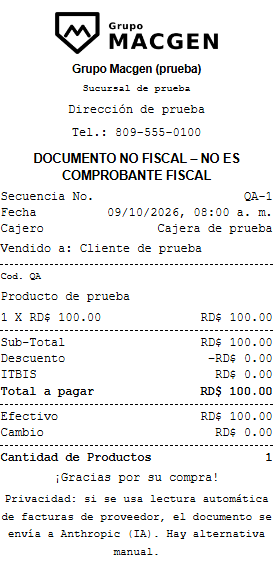
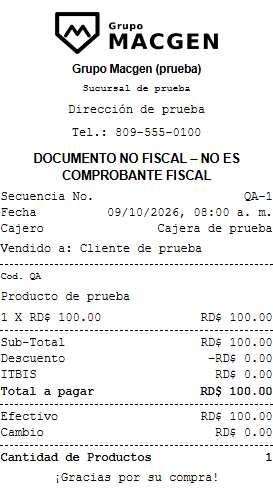
Int: P5 coherente con SEC-05 en Editar, POS y textos legales
Auditoría del lote (docs/AUDITORIA_LOTE_CHATGPT.md, P5-1..P5-3) y defecto
de la mezcla P5 + SEC-05:
- customer-display.ts: customerPrivateDisplay reducía lo que la API ya
  enmascara («•••••••123», SEC-05) a «•••», perdiendo los tres dígitos;
  ahora los conserva. seesCustomerPii aplica el mismo criterio que la API
  (sale:manage, customers:erase o *). customerEditValue: «Editar» nunca
  muestra el dato completo a la caja; lo enmascarado lleva «•» y la API
  (SEC-05) no lo guarda encima del real.
- Management.tsx (Clientes): Editar usa customerEditValue para teléfono y
  cédula/RNC; la búsqueda sin acceso completo no usa el teléfono.
- POS.tsx: el selector de cliente muestra «•••123» en vez del teléfono.
- Prints.tsx / TEXTO_PIE_TICKET.md: se quita del ticket del cliente el aviso
  sobre facturas de proveedor (queda sólo en la política, sección 6); se
  restaura la captura P4-ticket-80mm.png sin ese aviso.
- POLITICA_PRIVACIDAD.md: sin la nota interna de redacción (ahora marcador
  [GERENCIA/ABOGADO]) y la sección 4 ya no promete comprar sin dar nombre
  (el POS exige cliente con nombre).
Pruebas en tests/customer-display.test.ts (fallan antes, pasan ahora).

Claude-Session: https://claude.ai/code/session_01VUzTHmv39QwMjbYWn5CWyp

Changed region(s): [[0.0, 0.0, 1.0, 0.992], [0.4982, 0.481, 0.5568, 0.511]]

diff --git a/tests/customer-display.test.ts b/tests/customer-display.test.ts
@@ -1,22 +1,68 @@
 import { describe, expect, it } from "vitest";
 import { readFileSync } from "node:fs";
-import { customerPrivateDisplay } from "../apps/web/src/customer-display";
+import {
+  customerEditValue,
+  customerPrivateDisplay,
+  seesCustomerPii,
+} from "../apps/web/src/customer-display";
+const flat = (path: string) => readFileSync(path, "utf8").replace(/\s+/g, " ");
 describe("P5: datos de clientes en la lista", () => {
-  it("la lista aplica el filtro y el ticket declara lectura de facturas por IA", () => {
+  it("la lista aplica el filtro y el aviso de IA queda en la política, no en el ticket", () => {
     const source = readFileSync("apps/web/src/Management.tsx", "utf8");
     expect(source).toMatch(/customerPrivateDisplay\(\s*c.phone/);
     expect(source).toMatch(/customerPrivateDisplay\(\s*c.legalId/);
-    expect(
-      readFileSync("apps/web/src/Prints.tsx", "utf8").replace(/\s+/g, " "),
-    ).toContain("el documento se envía a Anthropic (IA)");
+    // Int P5-3: el ticket del cliente no habla de facturas de proveedor.
+    expect(flat("apps/web/src/Prints.tsx")).not.toContain("Anthropic");
+    expect(flat("docs/legal/POLITICA_PRIVACIDAD.md")).toContain(
+      "la imagen o PDF de la factura se envía a Anthropic",
+    );
   });
   it("cajera sólo ve los tres últimos dígitos y nunca un dato corto completo", () => {
     expect(customerPrivateDisplay("809-555-0123", false)).toBe("•••123");
     expect(customerPrivateDisplay("001-1234567-8", false)).toBe("•••678");
     expect(customerPrivateDisplay("12", false)).toBe("•••");
     expect(customerPrivateDisplay("", false)).toBe("—");
+    // Lo que ya envía enmascarado la API (SEC-05) se acorta igual.
+    expect(customerPrivateDisplay("•••••••123", false)).toBe("•••123");
   });
   it("gerencia conserva el dato completo", () => {
     expect(customerPrivateDisplay("809-555-0123", true)).toBe("809-555-0123");
+  });
+  it("Int P5-1: mismo criterio que la API (sale:manage, customers:erase o *)", () => {
+    expect(seesCustomerPii(["sale:write", "customers:write"])).toBe(false);
+    expect(seesCustomerPii(["sale:manage"])).toBe(true);
+    expect(seesCustomerPii(["customers:erase"])).toBe(true);
+    expect(seesCustomerPii(["*"])).toBe(true);
+  });
+  it("Int P5-1: «Editar» no muestra el dato completo a la caja", () => {
+    expect(customerEditValue("809-555-0123", false)).toBe("•••123");
+    // Lo enmascarado lleva «•» y la API no lo guarda encima del real.
+    expect(customerEditValue("•••••••123", false)).toBe("•••••••123");
+    expect(customerEditValue("", false)).toBe("");
+    expect(customerEditValue(null, false)).toBeNull();
+    expect(customerEditValue("809-555-0123", true)).toBe("809-555-0123");
+    const source = flat("apps/web/src/Management.tsx");
+    expect(source).toContain(
+      "phone: customerEditValue(editing.phone, fullCustomer)",
+    );
+    expect(source).toContain(
+      "legalId: customerEditValue(editing.legalId, fullCustomer)",
+    );
+    expect(source).toContain('(c.name + " " + (fullCustomer ? c.phone : ""))');
+  });
+  it("Int P5-1: el selector de cliente del POS no muestra el teléfono completo", () => {
+    const pos = flat("apps/web/src/POS.tsx");
+    expect(pos).not.toContain("<small>{c.phone}</small>");
+    expect(pos).toMatch(
+      /customerPrivateDisplay\( c\.phone, seesCustomerPii\(user!\.permissions\), \)/,
+    );
+  });
+  it("Int P5-2/P5-4: la política no publica notas internas ni promete compra anónima", () => {
+    const policy = flat("docs/legal/POLITICA_PRIVACIDAD.md");
+    expect(policy).not.toContain("antes de publicar este texto, la gerencia");
+    expect(policy).not.toContain(
+      'Puede comprar como "consumidor final" sin dar nombre',
+    );
+    expect(policy).toContain("pedimos un nombre que identifique al cliente");
   });
 });

diff --git a/apps/web/src/Management.tsx b/apps/web/src/Management.tsx
@@ -61,7 +61,11 @@ import {
   type Printing,
 } from "./Tienda";
 import { METHOD_LABEL, printSoon } from "./Prints";
-import { customerPrivateDisplay } from "./customer-display";
+import {
+  customerEditValue,
+  customerPrivateDisplay,
+  seesCustomerPii,
+} from "./customer-display";
 import { managementQueryError } from "./managementMessages";
 import {
   applyPendingSaleReprice,
@@ -1902,9 +1906,7 @@ export function Customers() {
   // SEC-05: sin gerencia, la API envía teléfono, correo y cédula/RNC
   // enmascarados («•••••••123») y sin gasto histórico. El correo enmascarado
   // no es un correo válido para el navegador; la API lo valida al guardar.
-  const fullCustomer =
-    can(user.permissions, "sale:manage") ||
-    can(user.permissions, "customers:erase");
+  const fullCustomer = seesCustomerPii(user.permissions);
   const fields: Field[] = [
     { key: "name", label: "Nombre", required: true },
     { key: "phone", label: "Teléfono" },
@@ -1941,7 +1943,9 @@ export function Customers() {
         <QueryState query={query}>
           <DataTable
             rows={(query.data || []).filter((c: any) =>
-              (c.name + " " + c.phone)
+              // P5: sin acceso completo la búsqueda no usa el teléfono, para
+              // no servir de oráculo de los dígitos ocultos.
+              (c.name + " " + (fullCustomer ? c.phone : ""))
                 .toLowerCase()
                 .includes(search.toLowerCase()),
             )}
@@ -2015,7 +2019,12 @@ export function Customers() {
         <FormModal
           title="Editar cliente"
           fields={fields}
-          initial={editing}
+          // P5: «Editar» tampoco muestra teléfono ni cédula/RNC completos.
+          initial={{
+            ...editing,
+            phone: customerEditValue(editing.phone, fullCustomer),
+            legalId: customerEditValue(editing.legalId, fullCustomer),
+          }}
           onClose={() => setEditing(null)}
           onSubmit={(data) => mutate("/customers/" + editing.id, data, "PATCH")}
         />

diff --git a/apps/web/src/customer-display.ts b/apps/web/src/customer-display.ts
@@ -7,6 +7,29 @@ export function customerPrivateDisplay(
   if (!text) return "—";
   if (manager) return text;
   const digits = text.replace(/\D/g, "");
+  // SEC-05: la API ya lo envía enmascarado («•••••••123»); sus tres dígitos
+  // visibles se conservan en vez de reducirlo a «•••».
+  if (text.includes("•")) return "•••" + digits.slice(-3);
   // Un dato corto tampoco se revela completo.
   return digits.length > 3 ? "•••" + digits.slice(-3) : "•••";
+}
+
+/**
+ * Mismo criterio que la API (SEC-05, canViewCustomerPii en common.ts):
+ * gerencia (sale:manage), quien puede borrar clientes (customers:erase) o la
+ * administración (*) ven teléfono, correo y cédula/RNC completos.
+ */
+export const seesCustomerPii = (permissions: readonly string[]) =>
+  ["*", "sale:manage", "customers:erase"].some((p) => permissions.includes(p));
+
+/**
+ * Valor inicial del formulario «Editar» para quien no ve los datos
+ * completos: nunca el dato completo, aunque llegara sin enmascarar. Lo
+ * enmascarado («•••123») lleva «•», así que la API (SEC-05) no lo guarda
+ * encima del dato real; un campo vacío sigue vacío para poder completarlo.
+ */
+export function customerEditValue(value: unknown, full: boolean) {
+  if (value === null || value === undefined || value === "") return value;
+  if (full || String(value).includes("•")) return value;
+  return customerPrivateDisplay(value, false);
 }

diff --git a/apps/web/src/POS.tsx b/apps/web/src/POS.tsx
@@ -66,6 +66,7 @@ import {
   priceChanges,
 } from "./realtime";
 import { offlineSaleAction } from "./offlinePolicy";
+import { customerPrivateDisplay, seesCustomerPii } from "./customer-display";
 import { blockPosShortcutWithModal } from "./posKeyboard";
 
 function discountFor(
@@ -1163,7 +1164,15 @@ export function POS({ go }: { go: (page: string) => void }) {
                   <UserRound />
                   <span>
                     {c.name}
-                    <small>{c.phone}</small>
+                    {/* P5 + SEC-05: el selector no muestra el teléfono completo. */}
+                    <small>
+                      {c.phone
+                        ? customerPrivateDisplay(
+                            c.phone,
+                            seesCustomerPii(user!.permissions),
+                          )
+                        : null}
+                    </small>
                   </span>
                 </button>
               ))}

diff --git a/apps/web/src/Prints.tsx b/apps/web/src/Prints.tsx
@@ -374,10 +374,6 @@ export function InvoicePrint({
       <hr />
       <Row label="Cantidad de Productos" value={units} strong />
       <p className="tp-center">¡Gracias por su compra!</p>
-      <small className="tp-center">
-        Privacidad: si se usa lectura automática de facturas de proveedor, el
-        documento se envía a Anthropic (IA). Hay alternativa manual.
-      </small>
     </>
   );
 }

diff --git a/docs/legal/POLITICA_PRIVACIDAD.md b/docs/legal/POLITICA_PRIVACIDAD.md
@@ -23,7 +23,7 @@ A (a) clientes que compran o a quienes se les registra en nuestro sistema de caj
 No recolectamos números completos de tarjeta ni códigos de seguridad. No tomamos fecha de nacimiento ni datos de menores. No usamos sus datos para publicidad de terceros ni para decisiones automatizadas. [Si la Tienda enviará promociones, deberá pedir un consentimiento separado y hoy no lo hace.]
 
 ## 4. Si no entrega los datos
-Puede comprar como "consumidor final" sin dar nombre, teléfono ni correo. Solo necesitamos cédula/RNC si usted pide comprobante fiscal con sus datos, y datos de contacto si compra a crédito o contraentrega.
+Para registrar la venta pedimos un nombre que identifique al cliente en el recibo; teléfono, correo y cédula/RNC son opcionales. Solo necesitamos cédula/RNC si usted pide comprobante fiscal con sus datos, y datos de contacto si compra a crédito o contraentrega.
 
 ## 5. Cuánto tiempo los conservamos
 - Registros de venta, pagos, comprobantes (NCF) y documentos contables: el plazo exigido por la normativa fiscal y contable dominicana [ABOGADO/CONTADOR: confirmar, normalmente varios años].
@@ -42,7 +42,7 @@ No vendemos sus datos.
 ### Lectura automática de facturas de proveedor
 Si se utiliza esta función, la imagen o PDF de la factura se envía a Anthropic, proveedor de inteligencia artificial, para extraer los datos y permitir su revisión humana. No es necesario utilizarla: puede registrar la factura manualmente o mediante Excel/CSV. Evite enviar información personal que no sea necesaria.
 
-La aplicación no crea un archivo de la factura en la cuenta de Anthropic. Esto no equivale a garantizar retención cero por parte del proveedor: antes de publicar este texto, la gerencia debe confirmar las condiciones de conservación y el acuerdo de tratamiento aplicables a su cuenta. No se afirma que el proveedor elimine inmediatamente el documento sin evidencia contractual.
+La aplicación no crea un archivo de la factura en la cuenta del proveedor. Las condiciones de conservación del proveedor son las de su acuerdo de tratamiento de datos. [GERENCIA/ABOGADO: confirmar plazo de conservación antes de publicar.]
 
 ## 7. Sus derechos
 Puede pedir en cualquier momento acceso a sus datos, rectificar los que estén errados, actualizarlos, cancelarlos (eliminarlos) u oponerse a su uso, y retirar su consentimiento. Escriba a [CORREO DE CONTACTO] o pregunte en caja; le pediremos verificar su identidad. Responderemos en un plazo de [10] días hábiles [ABOGADO: confirmar plazo legal]. Algunos datos no pueden eliminarse mientras exista una obligación legal de conservarlos; en ese caso los anonimizaremos y se lo explicaremos. Si cree que sus derechos no fueron atendidos, puede acudir a la autoridad competente [ABOGADO: indicar].

diff --git a/docs/legal/TEXTO_PIE_TICKET.md b/docs/legal/TEXTO_PIE_TICKET.md
@@ -44,5 +44,4 @@ Info: [TELEFONO]
 
 Notas: la leyenda de "NO FISCAL" debe ir siempre mientras no exista NCF; si el sistema emite NCF/e-CF, la leyenda debe cambiar según indique la contable. Evitar la palabra "FACTURA" como título cuando no hay NCF.
 
-## Aviso de lectura automática (privacidad)
-Si se usa lectura automática de facturas de proveedor, el documento se envía a Anthropic (IA) para extraer sus datos. Hay alternativa manual. La aplicación no crea un archivo en la cuenta del proveedor; la retención del servicio requiere confirmación contractual antes de prometer que no se guarda allí. Este aviso no significa que la compra del cliente se envíe a IA.
+El aviso sobre la lectura automática de facturas de proveedor no va en el ticket del cliente (no tiene relación con su compra); está sólo en la política de privacidad, sección 6.
